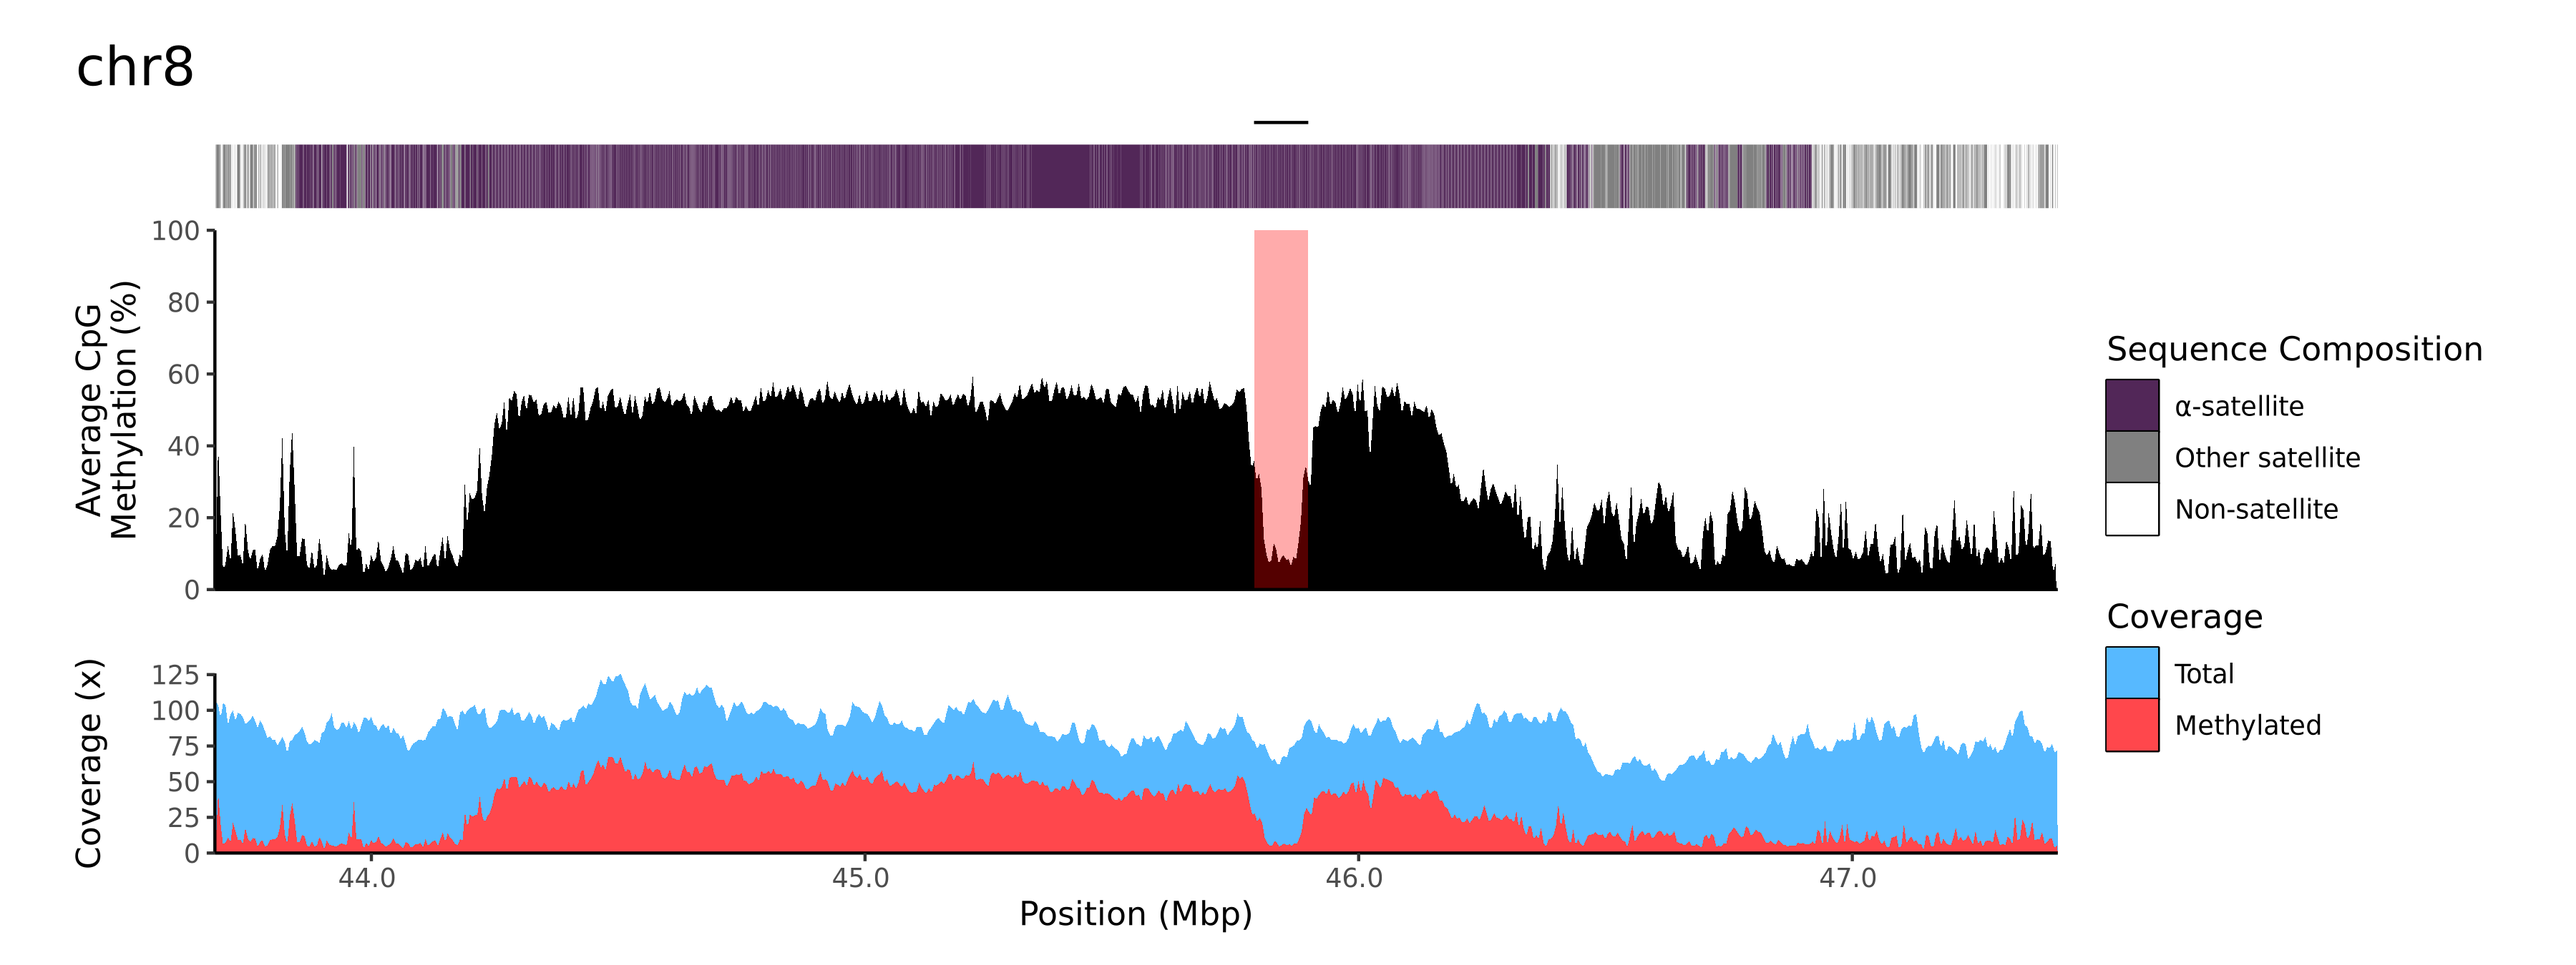
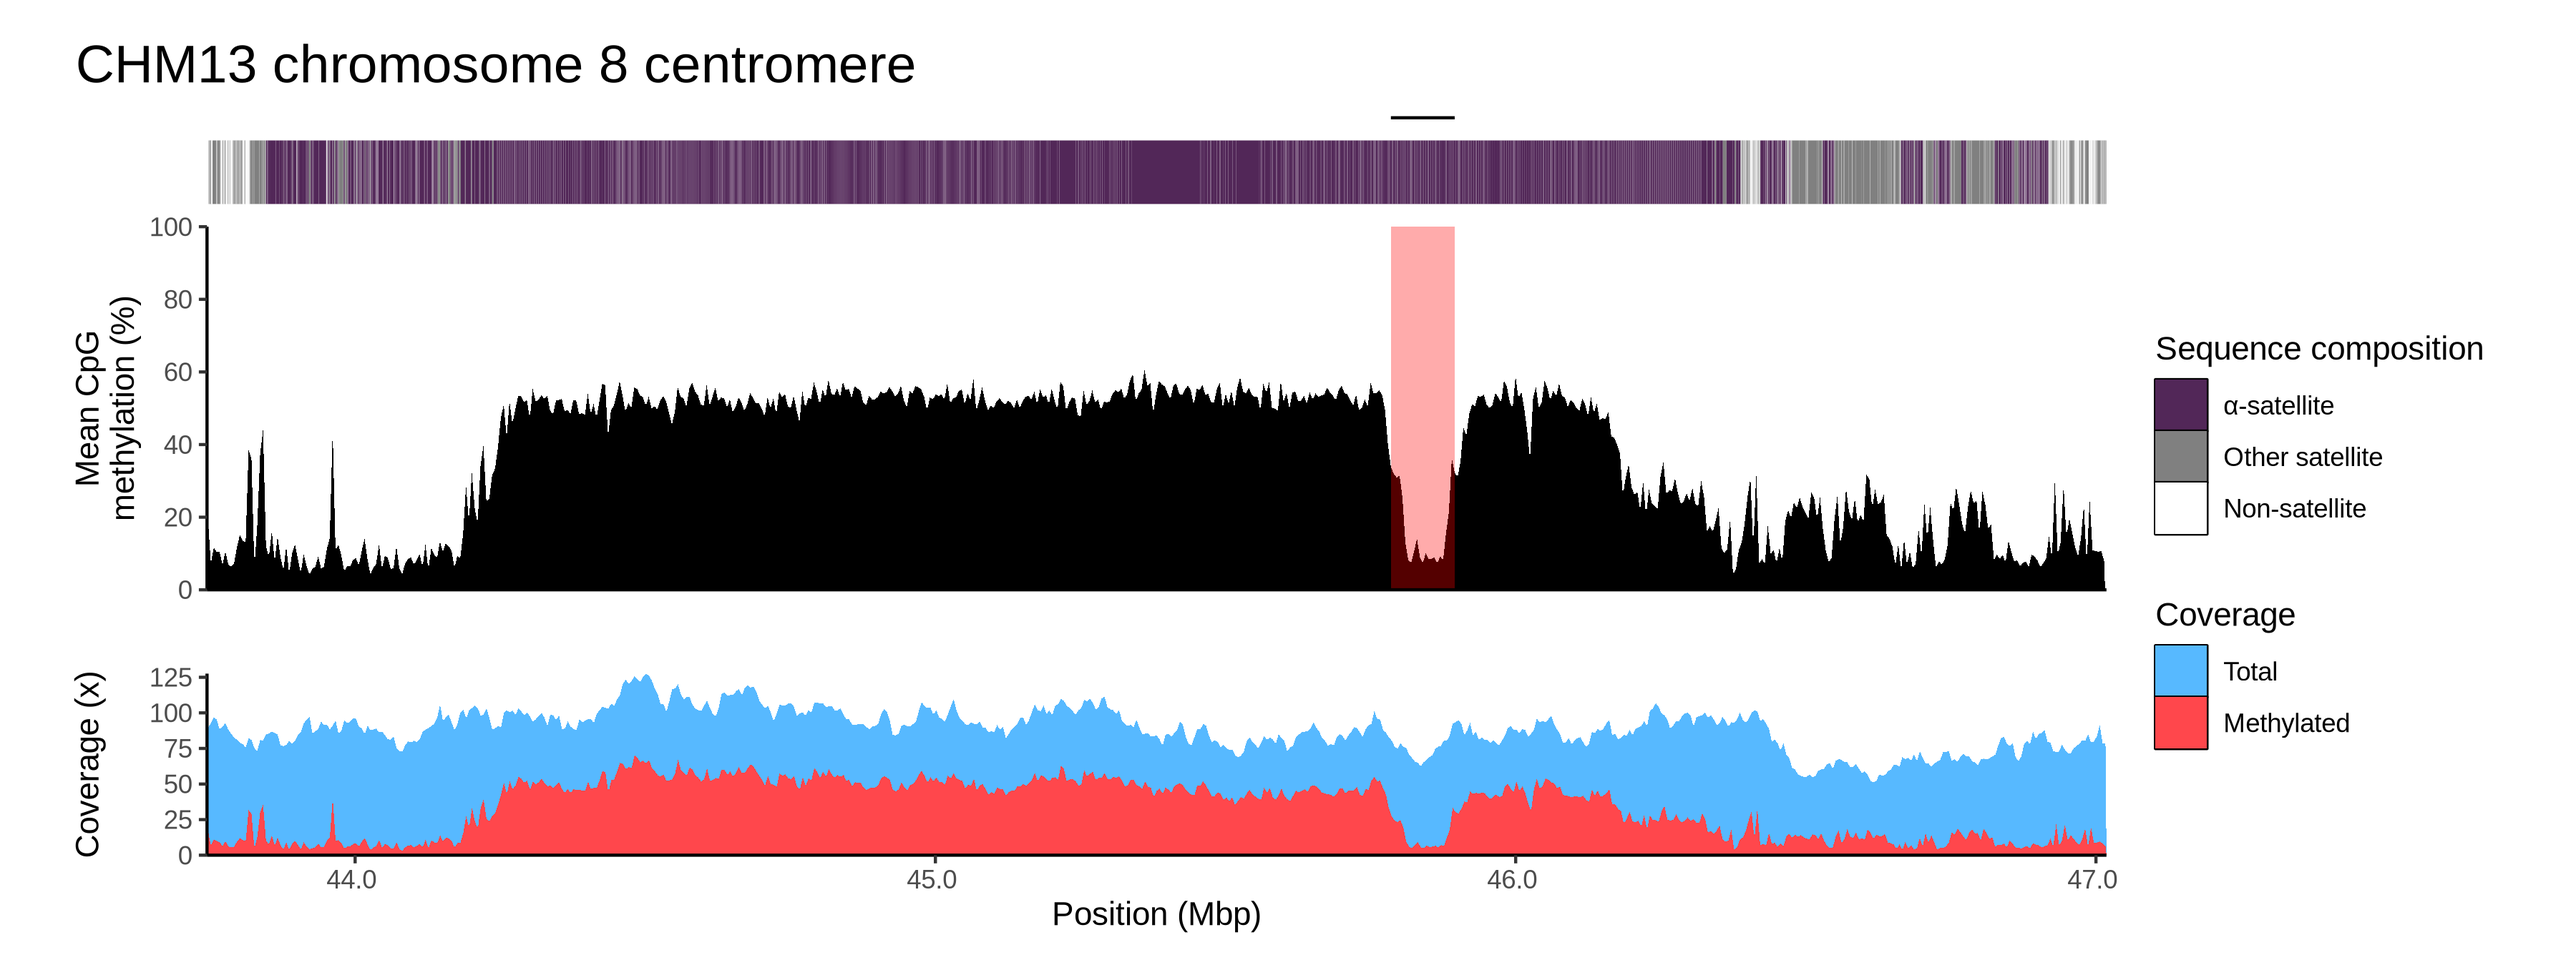
Add add_hbar option. Add samples.name.titles option to label plot titles. Updated plot with suggestions.

diff --git a/README.md b/README.md
@@ -84,6 +84,9 @@ Multiple samples can be provided via the configfile. Each sample should contain 
     * https://github.com/epi2me-labs/modbam2bed?tab=readme-ov-file#usage
 - `regions`
     * BED file of target region coordinates.
+- `titles`
+    * Optional
+    * Two column TSV file with chrom name and plot title name.
 
 ## Output
 - `cdr_bed`
